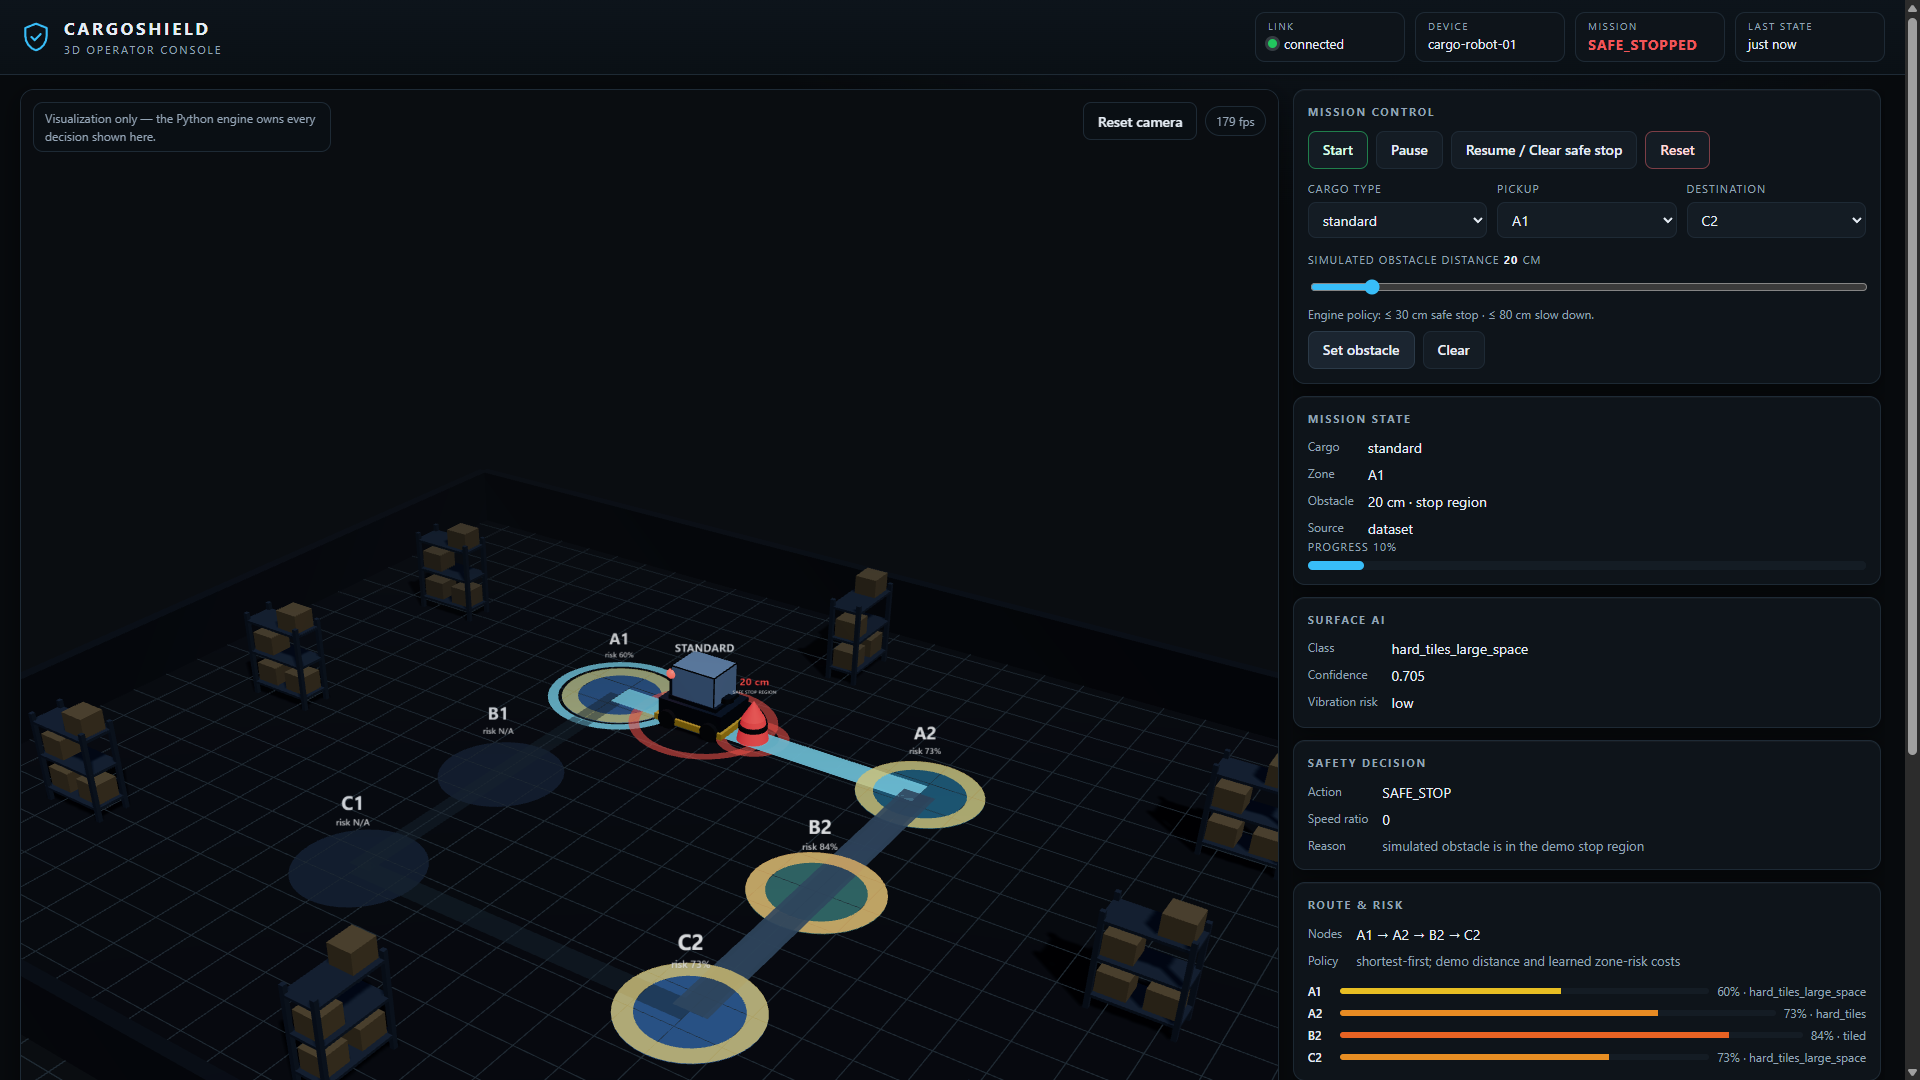
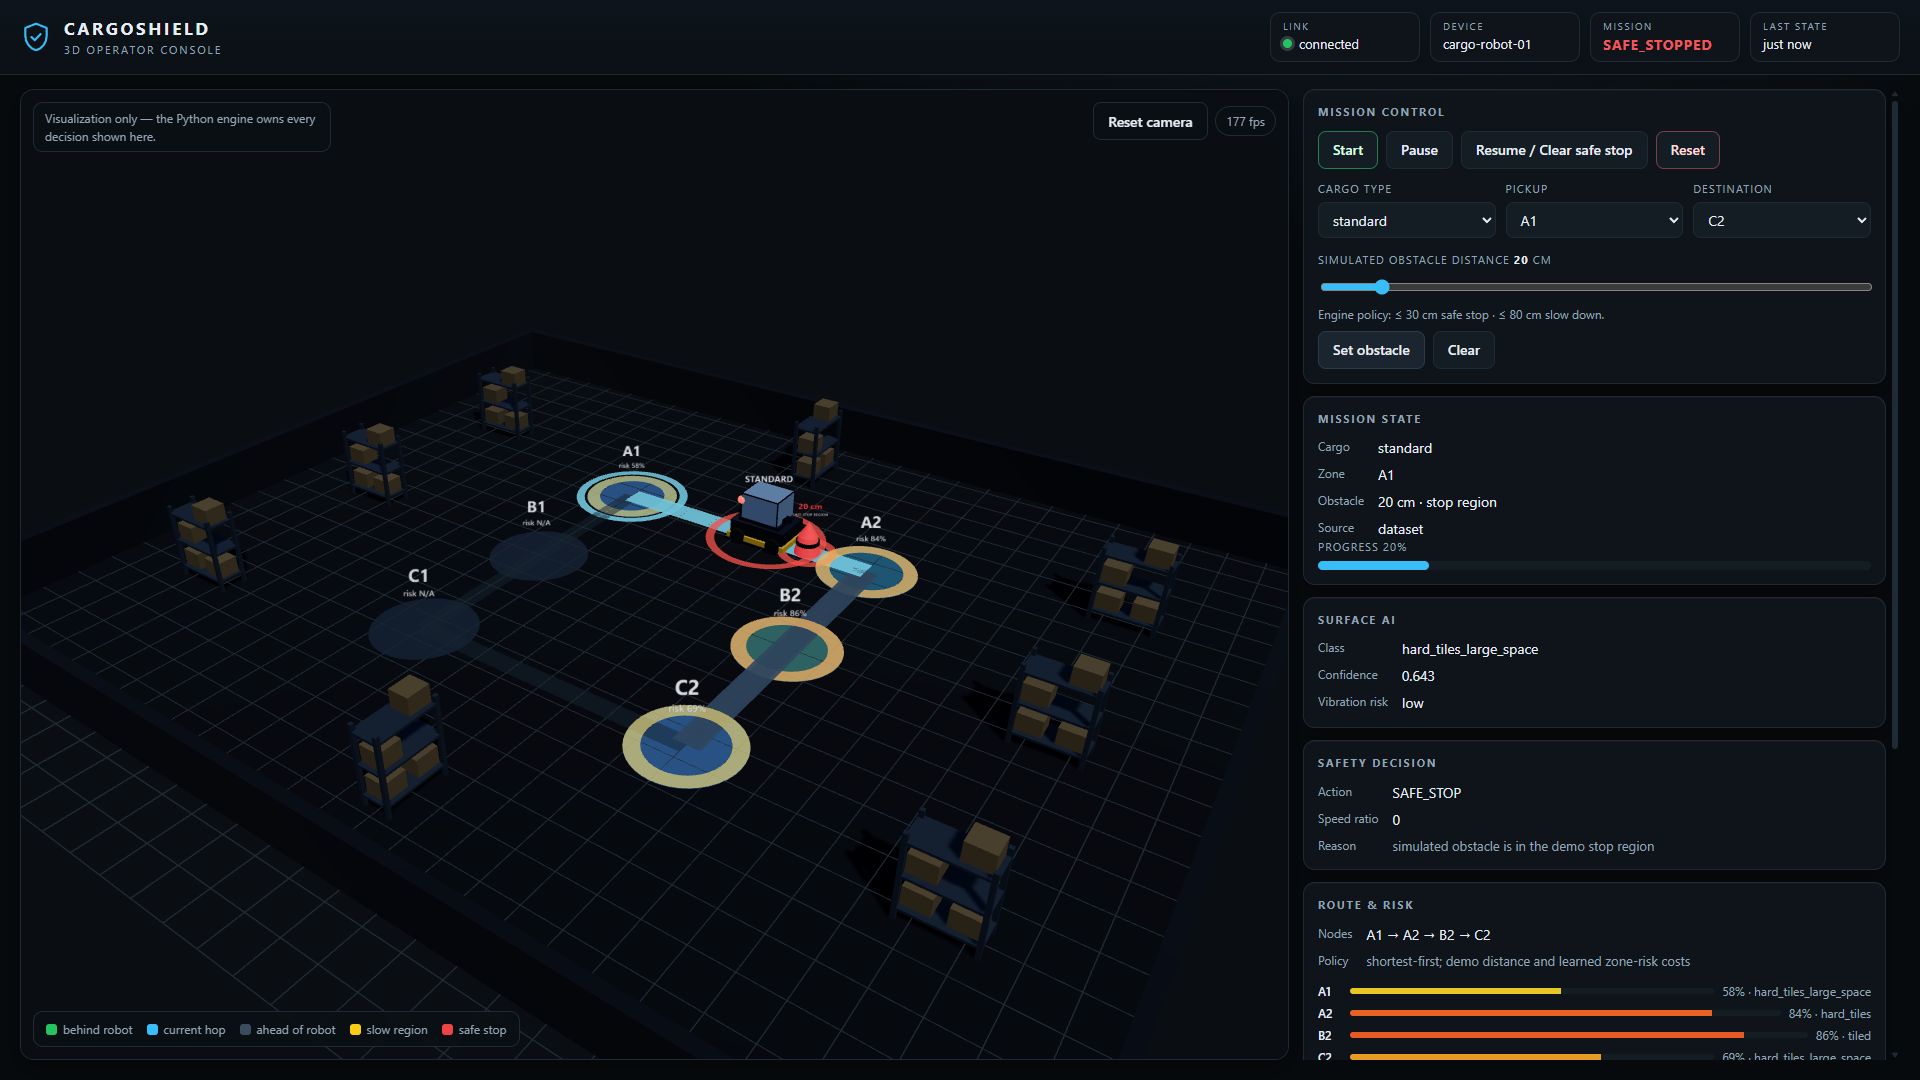
Add WebApp visual tests, resolution responsive evidence and UI tweaks

diff --git a/webapp/scene.js b/webapp/scene.js
@@ -204,7 +204,7 @@ export function createScene(canvas, { reducedMotion = false } = {}) {
 
   const camera = new THREE.PerspectiveCamera(48, 1, 0.5, 220);
   // Framed so the whole demo map, both rack walls and the zone labels fit at 16:9 and on a laptop.
-  const HOME = { position: new THREE.Vector3(32, 36, 46), target: new THREE.Vector3(0, 1.5, 0) };
+  const HOME = { position: new THREE.Vector3(28, 31, 40), target: new THREE.Vector3(0, 1.5, 0) };
   camera.position.copy(HOME.position);
 
   const controls = new OrbitControls(camera, renderer.domElement);
@@ -309,7 +309,7 @@ export function createScene(canvas, { reducedMotion = false } = {}) {
     active.position.y = 0.05;
     active.visible = false;
     const label = makeLabel(256, 128);
-    label.sprite.scale.set(3.6, 1.8, 1);
+    label.sprite.scale.set(4.2, 2.1, 1);
     label.sprite.position.y = 2.6;
     group.add(pad, heat, active, label.sprite);
     scene.add(group);

diff --git a/webapp/app.js b/webapp/app.js
@@ -49,7 +49,10 @@ for (const [select, options] of [[$('cargo'), CARGO_TYPES], [$('pickup'), ZONES]
 $('pickup').value = 'A1';
 $('destination').value = 'C2';
 
-const client = new LiveDataClient({ transport: 'mqtt', url, clientId: `cargoshield-console-${deviceId}` });
+// Unique per page instance: MQTT brokers evict an older session that reconnects with the same client
+// id, so a second tab or a refresh would otherwise knock the first console off the broker.
+const clientId = `cargoshield-console-${deviceId}-${Math.random().toString(36).slice(2, 8)}`;
+const client = new LiveDataClient({ transport: 'mqtt', url, clientId });
 
 const pending = new Set();
 const sentAt = new Map();

diff --git a/webapp/index.html b/webapp/index.html
@@ -54,9 +54,9 @@
     </div>
 
     <ul class="legend" aria-label="Route legend">
-      <li><i class="swatch" style="--swatch:#22c55e"></i>travelled</li>
+      <li><i class="swatch" style="--swatch:#22c55e"></i>behind robot</li>
       <li><i class="swatch" style="--swatch:#38bdf8"></i>current hop</li>
-      <li><i class="swatch" style="--swatch:#3b4c5e"></i>remaining</li>
+      <li><i class="swatch" style="--swatch:#3b4c5e"></i>ahead of robot</li>
       <li><i class="swatch" style="--swatch:#facc15"></i>slow region</li>
       <li><i class="swatch" style="--swatch:#ef4444"></i>safe stop</li>
     </ul>

diff --git a/webapp/styles.css b/webapp/styles.css
@@ -26,7 +26,9 @@
 
 body {
   margin: 0;
-  min-height: 100vh;
+  /* One control-room screen: the page itself never scrolls, the telemetry column does. */
+  height: 100dvh;
+  overflow: hidden;
   display: flex;
   flex-direction: column;
   background:
@@ -319,6 +321,7 @@ progress::-webkit-progress-value { background: var(--accent); border-radius: 999
 }
 
 @media (max-width: 980px) {
+  body { height: auto; min-height: 100dvh; overflow: visible; }
   .layout { grid-template-columns: 1fr; }
   .stage { min-height: 60vh; }
   .side { overflow: visible; }

diff --git a/tests/test_webapp_visual.py b/tests/test_webapp_visual.py
@@ -1,0 +1,120 @@
+"""The 3D console must not drift away from the engine it is drawing.
+
+Everything asserted here is read out of `webapp/controls.js` with node, so the scene's floor plan,
+its obstacle colour bands and its "may the robot be animated?" rule stay pinned to the Python
+policy, the demo map and the trained model's label set. Skipped when node is unavailable.
+"""
+
+import json
+import shutil
+import subprocess
+import unittest
+from pathlib import Path
+
+from cargo.controller import STATUS_BY_ACTION
+from cargo.decision_engine import CargoPolicy
+from cargo.routing import DEMO_GRAPH
+
+ROOT = Path(__file__).resolve().parents[1]
+WEBAPP = ROOT / "webapp"
+
+# Statuses the engine can put on the wire, plus the two terminal ones it sets directly.
+STATUSES = sorted(set(STATUS_BY_ACTION.values()) | {"IDLE", "READY", "COMPLETED", "PAUSED", "ERROR"})
+
+EXTRACT = """
+import { OBSTACLE_POLICY, ZONE_POSITIONS, DEMO_EDGES, SURFACE_TINTS, obstacleTone, motion, routePosition } from './controls.js';
+const statuses = %s;
+console.log(JSON.stringify({
+  policy: OBSTACLE_POLICY,
+  zones: Object.keys(ZONE_POSITIONS),
+  positions: ZONE_POSITIONS,
+  edges: DEMO_EDGES,
+  surfaces: Object.keys(SURFACE_TINTS),
+  tones: [null, 0, 30, 30.1, 80, 80.1, 200].map((d) => [d, obstacleTone(d)]),
+  motion: statuses.map((status) => [status, motion({ status, last: { decision: { speed_ratio: 0.45 } } })]),
+  moving_without_decision: motion({ status: 'MOVING' }),
+  route: [
+    ['A1', 0.0], ['A1', 0.1], ['A2', 0.4], ['A2', 0.95], ['B2', 0.5], ['C2', 0.9], ['C2', 1.0], ['ZZ', 0.3],
+  ].map(([zone, progress]) => [zone, progress, routePosition(['A1', 'A2', 'B2', 'C2'], zone, progress)]),
+  no_route: routePosition([], 'A1', 0.5),
+  no_progress: routePosition(['A1', 'A2', 'B2', 'C2'], 'B2', null),
+}));
+""" % json.dumps(STATUSES)
+
+
+def _extract() -> dict:
+    script = WEBAPP / "_extract_visual.mjs"
+    script.write_text(EXTRACT, encoding="utf-8")
+    try:
+        result = subprocess.run([shutil.which("node"), str(script)], capture_output=True, text=True, timeout=60, cwd=str(WEBAPP))
+    finally:
+        script.unlink(missing_ok=True)
+    if result.returncode != 0:
+        raise AssertionError(f"node failed reading webapp/controls.js: {result.stderr.strip()}")
+    return json.loads(result.stdout)
+
+
+@unittest.skipIf(shutil.which("node") is None, "node is required to read webapp/controls.js")
+class WebappVisualContractTests(unittest.TestCase):
+    @classmethod
+    def setUpClass(cls):
+        cls.contract = _extract()
+
+    def test_obstacle_bands_match_the_engine_policy(self):
+        policy = CargoPolicy()
+        self.assertEqual(self.contract["policy"]["stop_distance"], policy.stop_distance)
+        self.assertEqual(self.contract["policy"]["warning_distance"], policy.warning_distance)
+
+    def test_obstacle_tone_switches_on_the_engine_thresholds(self):
+        self.assertEqual(
+            [tone for _distance, tone in self.contract["tones"]],
+            ["none", "stop", "stop", "warn", "warn", "clear", "clear"],
+        )
+
+    def test_floor_plan_covers_the_demo_map_exactly(self):
+        self.assertEqual(sorted(self.contract["zones"]), sorted(DEMO_GRAPH))
+        expected = {frozenset((node, neighbor)) for node, edges in DEMO_GRAPH.items() for neighbor, _cost in edges}
+        self.assertEqual({frozenset(edge) for edge in self.contract["edges"]}, expected)
+        self.assertEqual(len(self.contract["edges"]), len(expected), "an aisle is drawn twice")
+
+    def test_every_zone_has_a_distinct_position(self):
+        points = [tuple(point) for point in self.contract["positions"].values()]
+        self.assertEqual(len(set(points)), len(points))
+
+    def test_surface_tints_cover_the_trained_label_set(self):
+        labels = set(json.loads((ROOT / "models" / "label_mapping.json").read_text(encoding="utf-8")).values())
+        self.assertEqual(set(self.contract["surfaces"]), labels)
+
+    def test_only_moving_and_slowing_may_be_animated(self):
+        animated = {status for status, result in self.contract["motion"] if result["animate"]}
+        self.assertEqual(animated, {"MOVING", "SLOWING"})
+
+    def test_animation_speed_follows_the_engine_speed_ratio(self):
+        by_status = dict(self.contract["motion"])
+        self.assertEqual(by_status["MOVING"]["speed"], 0.45)
+        self.assertEqual(by_status["SAFE_STOPPED"], {"animate": False, "speed": 0, "halted": True})
+        self.assertEqual(by_status["ERROR"]["halted"], True)
+        for status in ("PAUSED", "HOLDING"):
+            self.assertEqual(by_status[status]["speed"], 0, f"{status} must freeze the robot")
+        # A status with no decision yet still animates, just without a ratio to slow it down.
+        self.assertEqual(self.contract["moving_without_decision"], {"animate": True, "speed": 1, "halted": False})
+
+    def test_route_position_never_runs_ahead_of_the_reported_zone(self):
+        results = {(zone, progress): value for zone, progress, value in self.contract["route"]}
+        self.assertEqual(results[("A1", 0.0)], 0.0)
+        # Progress refines the position inside the current hop...
+        self.assertAlmostEqual(results[("A1", 0.1)], 0.1)
+        self.assertAlmostEqual(results[("A2", 0.4)], 0.4)
+        # ...but never runs past the next node, nor back behind the node the engine reported.
+        self.assertAlmostEqual(results[("A2", 0.95)], 2 / 3)
+        self.assertAlmostEqual(results[("B2", 0.5)], 2 / 3)
+        self.assertAlmostEqual(results[("C2", 0.9)], 1.0)
+        self.assertEqual(results[("C2", 1.0)], 1.0)
+        # An unknown zone falls back to the start of the route rather than guessing.
+        self.assertEqual(results[("ZZ", 0.3)], 0.3)
+        self.assertIsNone(self.contract["no_route"])
+        self.assertAlmostEqual(self.contract["no_progress"], 2 / 3)
+
+
+if __name__ == "__main__":
+    unittest.main()

diff --git a/scripts/webapp_ui_check.py b/scripts/webapp_ui_check.py
@@ -112,6 +112,23 @@ def main() -> None:
                 record["screenshot"] = evidence["screenshots"][shot]
             evidence["steps"].append(record)
 
+        try:
+            run_sequence(page, evidence, step, console)
+        except Exception as exc:  # a failed demo rehearsal is evidence too
+            evidence["failure"] = {"error": f"{type(exc).__name__}: {exc}", "screenshot": snapshot(page, "FAILURE"),
+                                   "timeline": page.inner_text("#timeline")[:2000],
+                                   "console": console.messages[-20:]}
+            evidence["passed"] = False
+        browser.close()
+
+    (ROOT / "reports").mkdir(exist_ok=True)
+    (ROOT / "reports" / "webapp_ui_evidence.json").write_text(json.dumps(evidence, indent=2), encoding="utf-8")
+    print(json.dumps({k: evidence[k] for k in ("passed", "retained_state_on_open", "webgl", "fps", "console", "screenshots", "failure") if k in evidence}, indent=2))
+    if not evidence["passed"]:
+        raise SystemExit("browser verification failed; see reports/webapp_ui_evidence.json")
+
+
+def run_sequence(page, evidence: dict, step, console: Console) -> None:
         # 2. The mandated demo sequence, every transition decided by the engine.
         # Normalise the mission first so the run is the documented A1 -> C2 standard-cargo demo.
         for selector, value in (("#cargo", "standard"), ("#pickup", "A1"), ("#destination", "C2")):
@@ -160,6 +177,26 @@ def main() -> None:
         step("pause", lambda: page.click('button[data-cmd="pause"]'), "PAUSED")
         step("reset again", lambda: page.click('button[data-cmd="reset"]'), "IDLE")
 
+        # 4. Laptop viewport: the layout must still fit without a sideways scroll.
+        page.set_viewport_size({"width": 1440, "height": 900})
+        page.wait_for_timeout(600)
+        evidence["laptop_viewport"] = {
+            "size": "1440x900",
+            "horizontal_overflow_px": page.evaluate("() => document.documentElement.scrollWidth - document.documentElement.clientWidth"),
+            "canvas_size": page.evaluate("() => { const c = document.getElementById('stage'); return [c.clientWidth, c.clientHeight]; }"),
+            "screenshot": snapshot(page, "READY_laptop_1440x900"),
+        }
+        page.set_viewport_size({"width": 1920, "height": 1080})
+        page.wait_for_timeout(400)
+
+        # 5. Keyboard reachability of the mission controls.
+        page.evaluate("() => document.activeElement?.blur()")
+        focused = []
+        for _ in range(8):
+            page.keyboard.press("Tab")
+            focused.append(page.evaluate("() => document.activeElement?.id || document.activeElement?.tagName"))
+        evidence["keyboard_focus_order"] = focused
+
         evidence["fps"] = page.inner_text("#fps")
         evidence["console"] = {"errors": console.errors, "message_count": len(console.messages)}
         # With a WebGL context available the 3D stage must be the thing on screen, not the fallback.
@@ -168,14 +205,8 @@ def main() -> None:
             and len(evidence["screenshots"]) >= 5
             and evidence["webgl"]["canvas_visible"]
             and not evidence["webgl"]["fallback_shown"]
+            and evidence["laptop_viewport"]["horizontal_overflow_px"] <= 0
         )
-        browser.close()
-
-    (ROOT / "reports").mkdir(exist_ok=True)
-    (ROOT / "reports" / "webapp_ui_evidence.json").write_text(json.dumps(evidence, indent=2), encoding="utf-8")
-    print(json.dumps({k: evidence[k] for k in ("passed", "retained_state_on_open", "webgl", "fps", "console", "screenshots")}, indent=2))
-    if not evidence["passed"]:
-        raise SystemExit("browser verification failed; see reports/webapp_ui_evidence.json")
 
 
 if __name__ == "__main__":
